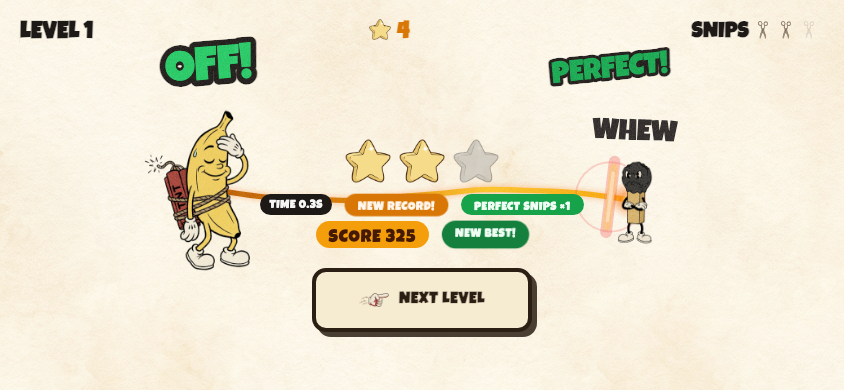
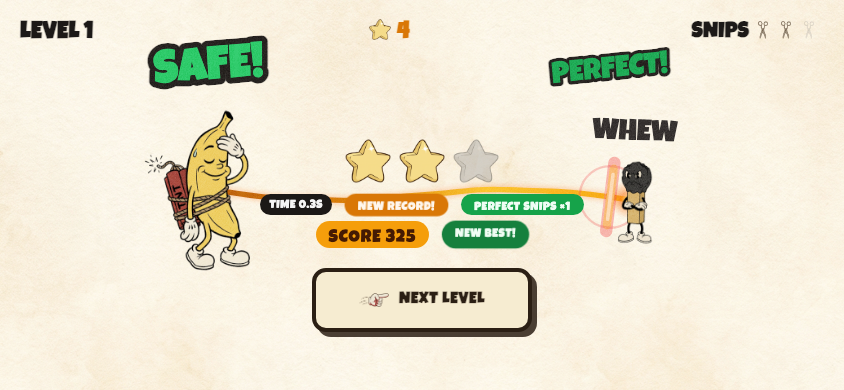
Fix mobile landscape: size the game to the visible viewport + safe areas
On iOS the layout viewport includes browser chrome that clips bottom-anchored
UI: Safari landscape's bottom toolbar is counted in innerHeight, and the
installed PWA's home indicator/notch overlap content without viewport-fit.
The renderer now sizes to the visualViewport (publishing --app-h/--app-w so
the CSS shell and every modal match the visible area), listens to visual
viewport + orientation changes, and the UI chrome pads for env() safe-area
insets so the header, controls, and modals never sit under the device chrome.

diff --git a/style.css b/style.css
@@ -18,6 +18,12 @@
 
 body, html {
     margin: 0; padding: 0; width: 100%; height: 100%;
+    /* iOS PWA/landscape safe sizing: JS publishes --app-h = the VISIBLE
+       viewport height (visualViewport), which excludes Safari's bottom toolbar
+       and the PWA home-indicator/status-bar chrome. 100vh→100dvh are the
+       no-JS fallbacks. */
+    height: 100vh;
+    height: var(--app-h, 100dvh);
     background-color: #F2E8D0; /* Aged off-white paper fallback */
     background-image: url('assets/ui/ui-bg-paper.png');
     background-repeat: repeat;
@@ -47,7 +53,14 @@ canvas { display: block; position: absolute; z-index: 10; }
 #ui-layer {
     position: absolute; top: 0; left: 0; width: 100%; height: 100%;
     pointer-events: none; z-index: 20;
-    padding: 20px; box-sizing: border-box;
+    /* Respect the device chrome (notch/status bar/home indicator) so the
+       header and controls never sit under it on iOS PWA landscape. */
+    padding:
+        calc(20px + env(safe-area-inset-top, 0px))
+        calc(20px + env(safe-area-inset-right, 0px))
+        calc(20px + env(safe-area-inset-bottom, 0px))
+        calc(20px + env(safe-area-inset-left, 0px));
+    box-sizing: border-box;
 }
 .header {
     display: flex; justify-content: space-between; align-items: center;
@@ -97,7 +110,10 @@ canvas { display: block; position: absolute; z-index: 10; }
 }
 
 .controls {
-    position: absolute; bottom: 20px; right: 20px;
+    position: absolute;
+    /* Clear the home indicator / notch before the corner offset applies. */
+    bottom: calc(20px + env(safe-area-inset-bottom, 0px));
+    right: calc(20px + env(safe-area-inset-right, 0px));
     display: flex; gap: 10px; pointer-events: auto;
 }
 .controls button {
@@ -130,7 +146,9 @@ canvas { display: block; position: absolute; z-index: 10; }
 
 /* Modals at bottom, high z-index to prevent canvas blocking clicks */
 .message-box {
-    position: absolute; bottom: 40px; top: auto; left: 50%;
+    position: absolute;
+    bottom: calc(40px + env(safe-area-inset-bottom, 0px));
+    top: auto; left: 50%;
     transform: translateX(-50%);
     background-image: url('assets/ui/ui-card-modal.png');
     background-repeat: no-repeat;
@@ -221,7 +239,7 @@ canvas { display: block; position: absolute; z-index: 10; }
     position: absolute; inset: 0; z-index: 90;
     display: none; justify-content: center; align-items: flex-start;
     pointer-events: none;
-    padding-top: 15vh;
+    padding-top: calc(var(--app-h, 100dvh) * 0.15);
 }
 #tutorial-box {
     background-image: url('assets/ui/ui-card-modal.png');
@@ -264,7 +282,7 @@ canvas { display: block; position: absolute; z-index: 10; }
     gap: 14px;
     justify-content: center;
     margin: 12px 0;
-    max-height: 60vh;
+    max-height: calc(var(--app-h, 100dvh) * 0.60);
     overflow-y: auto;
     padding: 2px;
 }
@@ -324,7 +342,7 @@ canvas { display: block; position: absolute; z-index: 10; }
     top: 50%; left: 50%; bottom: auto;
     transform: translate(-50%, -50%);
     width: min(94vw, 760px);
-    max-height: 86vh;
+    max-height: calc(var(--app-h, 100dvh) * 0.86);
     padding: 20px 24px;
     display: none; flex-direction: column; align-items: center;
 }
@@ -334,7 +352,7 @@ canvas { display: block; position: absolute; z-index: 10; }
     grid-template-columns: repeat(auto-fill, minmax(100px, 1fr));
     gap: 10px;
     width: 100%;
-    max-height: 56vh;
+    max-height: calc(var(--app-h, 100dvh) * 0.56);
     overflow-y: auto;
     padding: 4px;
     margin: 12px 0;
@@ -401,7 +419,7 @@ canvas { display: block; position: absolute; z-index: 10; }
     border-radius: 20px;
     box-shadow: 10px 10px 0px rgba(0, 0, 0, 0.3);
     width: min(92vw, 440px);
-    max-height: 92vh;
+    max-height: calc(var(--app-h, 100dvh) * 0.92);
     padding: 30px 30px 24px;
     display: none; flex-direction: column; align-items: center;
     overflow-y: auto;
@@ -464,7 +482,11 @@ canvas { display: block; position: absolute; z-index: 10; }
     #win-stats .stat { font-size: 0.72rem; padding: 5px 9px 2px; }
     .message-box.skins { width: min(92vw, 520px); }
     .header { font-size: 1.15rem; }
-    .controls { bottom: 14px; right: 14px; gap: 8px; }
+    .controls {
+        bottom: calc(14px + env(safe-area-inset-bottom, 0px));
+        right: calc(14px + env(safe-area-inset-right, 0px));
+        gap: 8px;
+    }
     .controls button { width: 48px; height: 48px; }
     .controls button img { width: 26px; height: 26px; }
     .win-stars img { width: 38px; height: 38px; }
@@ -472,7 +494,7 @@ canvas { display: block; position: absolute; z-index: 10; }
     #level-grid {
         grid-template-columns: repeat(auto-fill, minmax(84px, 1fr));
         gap: 8px;
-        max-height: 52vh;
+        max-height: calc(var(--app-h, 100dvh) * 0.52);
     }
     .level-cell .num { font-size: 1.2rem; }
     .level-cell .stars img { width: 13px; height: 13px; }
@@ -493,15 +515,15 @@ canvas { display: block; position: absolute; z-index: 10; }
         font-size: 1rem;
     }
     #modal-dda {
-        max-height: 92vh;
+        max-height: calc(var(--app-h, 100dvh) * 0.92);
         overflow-y: auto;
         padding: 16px 22px;
     }
     #modal-dda h1 { font-size: 1.5rem; margin: 0 0 6px; }
     #modal-dda p { font-size: 0.95rem; margin: 0 0 8px; }
-    .message-box.level-select { max-height: 94vh; }
-    #level-grid { max-height: 62vh; }
-    .message-box.main-menu { max-height: 94vh; padding: 16px 22px 12px; }
+    .message-box.level-select { max-height: calc(var(--app-h, 100dvh) * 0.94); }
+    #level-grid { max-height: calc(var(--app-h, 100dvh) * 0.62); }
+    .message-box.main-menu { max-height: calc(var(--app-h, 100dvh) * 0.94); padding: 16px 22px 12px; }
     .message-box.main-menu > button { height: 62px; margin: 4px 0; }
     .message-box.main-menu h1 { font-size: 1.9rem; }
     .win-stars { gap: 8px; margin: 2px 0 10px; }
@@ -510,12 +532,12 @@ canvas { display: block; position: absolute; z-index: 10; }
     #modal-lose, #modal-win { padding: 10px 16px; }
     /* Center the armory vertically so its tabs stay on screen. */
     .message-box.skins {
-        max-height: 94vh;
+        max-height: calc(var(--app-h, 100dvh) * 0.94);
         overflow-y: auto;
         top: 50%; bottom: auto;
         transform: translate(-50%, -50%);
     }
-    .message-box.skins #skin-grid { max-height: 36vh; }
+    .message-box.skins #skin-grid { max-height: calc(var(--app-h, 100dvh) * 0.36); }
 }
 
 /* Hide the corner control buttons while any modal / tutorial is open, so they

diff --git a/src/engine/Renderer.js b/src/engine/Renderer.js
@@ -44,14 +44,6 @@ export class Renderer {
         // render art crisply instead of the browser upscaling a 1x canvas.
         // All game math uses logical CSS-pixel width/height below.
         this.dpr = Math.max(1, window.devicePixelRatio || 1);
-        this.width = window.innerWidth;
-        this.height = window.innerHeight;
-        canvas.width = Math.round(this.width * this.dpr);
-        canvas.height = Math.round(this.height * this.dpr);
-        canvas.style.width = this.width + "px";
-        canvas.style.height = this.height + "px";
-        this.ctx.imageSmoothingEnabled = true;
-        this.ctx.imageSmoothingQuality = "high";
         this.images = {};
         // Sliding-hand demo pointer (level-1 onboarding) — same asset the UFO
         // puzzle animates along its hint path. Content bbox is computed lazily.
@@ -66,18 +58,40 @@ export class Renderer {
         this._menuParticles = [];
         this._menuPath = null; // organic closed loop (built lazily so it's random per visit)
         this.menuCard = null; // hub DOM element the spark weaves behind (wired by main.js)
+        this.root = null; // #game-container the CSS shell sizes to match the canvas
+        this.resize();
     }
 
     // ---- Responsive sizing ------------------------------------------------------
 
+    /** Logical viewport size. Uses the VISUAL viewport so iOS Safari landscape's
+     *  bottom toolbar (which is included in innerHeight) never clips bottom-
+     *  anchored UI; falls back to innerWidth/innerHeight everywhere else. */
+    _viewportSize() {
+        const vv = window.visualViewport;
+        if (vv && vv.width && vv.height) return { width: vv.width, height: vv.height };
+        return { width: window.innerWidth, height: window.innerHeight };
+    }
+
     resize() {
-        this.width = window.innerWidth;
-        this.height = window.innerHeight;
+        const { width, height } = this._viewportSize();
+        this.width = width;
+        this.height = height;
         this.dpr = Math.max(1, window.devicePixelRatio || 1);
-        this.canvas.width = Math.round(this.width * this.dpr);
-        this.canvas.height = Math.round(this.height * this.dpr);
-        this.canvas.style.width = this.width + "px";
-        this.canvas.style.height = this.height + "px";
+        this.canvas.width = Math.round(width * this.dpr);
+        this.canvas.height = Math.round(height * this.dpr);
+        this.canvas.style.width = width + "px";
+        this.canvas.style.height = height + "px";
+        // Keep the CSS app shell sized to the same visible viewport (fixes iOS
+        // PWA/Safari where innerHeight can under-report or include browser
+        // chrome, clipping the bottom row of UI). Root-level vars so every
+        // modal can size itself against the real visible area.
+        const root = typeof document !== "undefined" ? document.documentElement : null;
+        if (root && root.style && typeof root.style.setProperty === "function") {
+            root.style.setProperty("--app-w", width + "px");
+            root.style.setProperty("--app-h", height + "px");
+        }
+        if (this.root) this.root.style.height = height + "px";
     }
 
     computeFitCamera(level) {

diff --git a/src/main.js b/src/main.js
@@ -20,6 +20,7 @@ const $ = (id) => document.getElementById(id);
 
 const canvas = $("game-canvas");
 const renderer = new Renderer(canvas);
+renderer.root = $("game-container");
 const audio = new AudioManager();
 const save = new SaveManager();
 const analytics = new Analytics();
@@ -700,6 +701,14 @@ async function boot() {
     game.start();
     window.addEventListener("resize", () => {
         renderer.resize();
+    });
+    // iOS Safari landscape toolbar + PWA chrome resize the VISUAL viewport
+    // without always firing window resize — re-fit the game to the visible area.
+    if (window.visualViewport) {
+        window.visualViewport.addEventListener("resize", () => renderer.resize());
+    }
+    window.addEventListener("orientationchange", () => {
+        setTimeout(() => renderer.resize(), 80); // wait for the rotation to settle
     });
 
     // Host pause (Playgama / Playables) freezes the loop even when visible.

diff --git a/index.html b/index.html
@@ -88,7 +88,7 @@
 <html lang="en">
 <head>
     <meta charset="UTF-8">
-    <meta name="viewport" content="width=device-width, initial-scale=1.0, maximum-scale=1.0, user-scalable=no">
+    <meta name="viewport" content="width=device-width, initial-scale=1.0, maximum-scale=1.0, user-scalable=no, viewport-fit=cover">
     <title>Cut the Fuse: Bomb Puzzle</title>
     <meta name="description" content="One snip from disaster. Cut the burning fuses before the sparks reach the bomb. 60 levels of snip-or-suffer puzzles. Free in the browser." />
     <meta name="keywords" content="Cut the Fuse, bomb puzzle, snipping game, arcade puzzle, browser game, hypercasual" />
